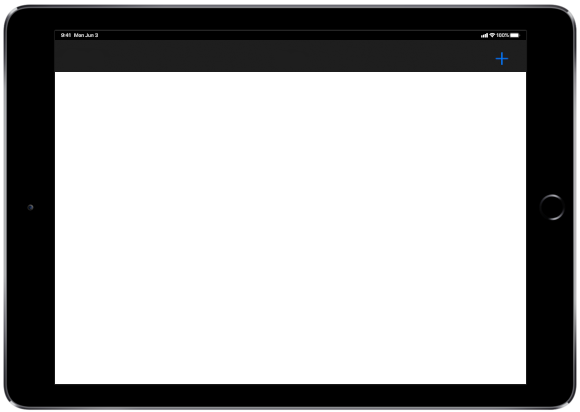
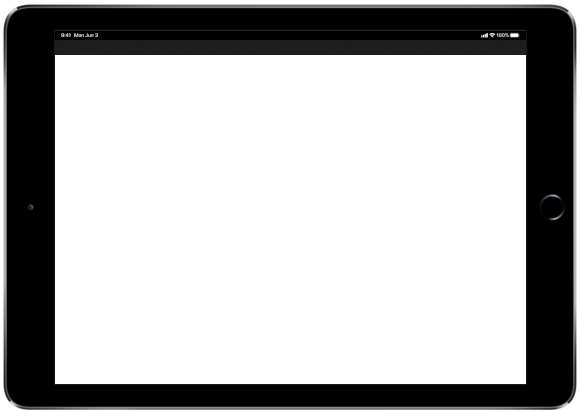
Add iPad Mini 7.9' - 2019 (1024x768 Landscape)

Changed region(s): [[0.0931, 0.1165, 0.931, 0.1748]]

diff --git a/tablets/tablets.css b/tablets/tablets.css
@@ -106,7 +106,7 @@ body {
     top: 186px;
     left: 2078px;
     width: 1246px;
-    height: 892px;
+    height: 926px;
     /* This makes the website accessible through the device image */
     pointer-events: none;
 }
@@ -115,9 +115,9 @@ body {
 #deviceIPadMiniLandscape {
     margin-left: 130px;
     margin-right: 55px;
-    margin-top: 256px;
+    margin-top: 224px;
     background-color: white;
-    height: 1066px;
+    height: 750px;
 }
 
 /* This is the device name and dimensions text */
@@ -125,8 +125,8 @@ body {
     margin: 0;
     position: absolute;
     top: 140px;
-    left: 1462px;
-    /* width: 200px; */
+    left: 2462px;
+    width: 500px;
 }
 /* ------------------------------ iPad Mini Landscape ---------------------------------- */
 

diff --git a/tablets/tablets.html b/tablets/tablets.html
@@ -46,7 +46,7 @@
             </webview>
         </div>
         <div id="deviceIPadMiniLandscape">
-            <p id="iPadMiniLandscapeText">iPad Mini 7.9" - 2019 Landscape (1024x768)</p>
+            <p id="iPadMiniLandscapeText">iPad Mini 7.9" - 2019 (1024x768 Landscape)</p>
             <img id="iPadMiniLandscapeImg" src="../assets/apple/iPadMiniLandscapeBrowserDark.png">
             <webview id="iPadMiniLandscape" src="" class="device" class="apple" class="tablet">
             </webview>
